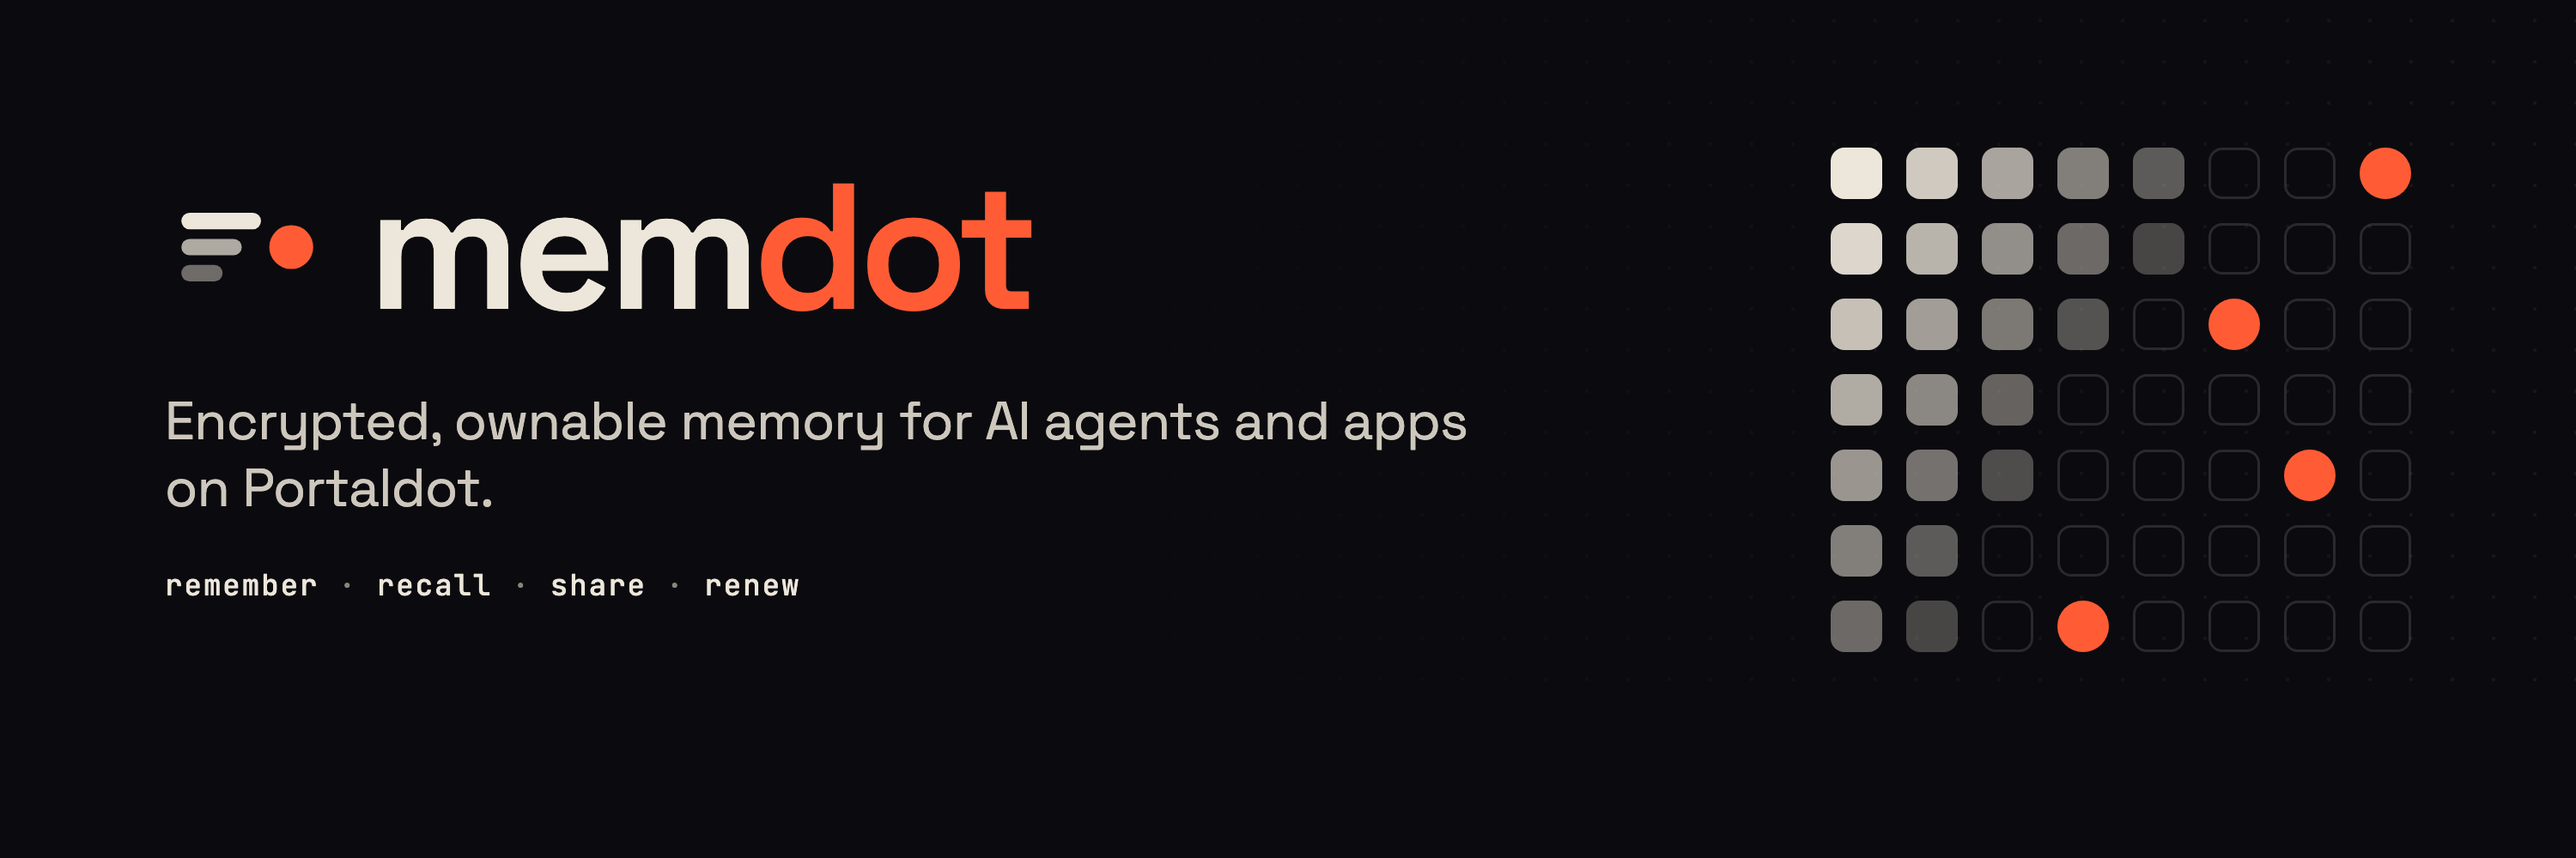
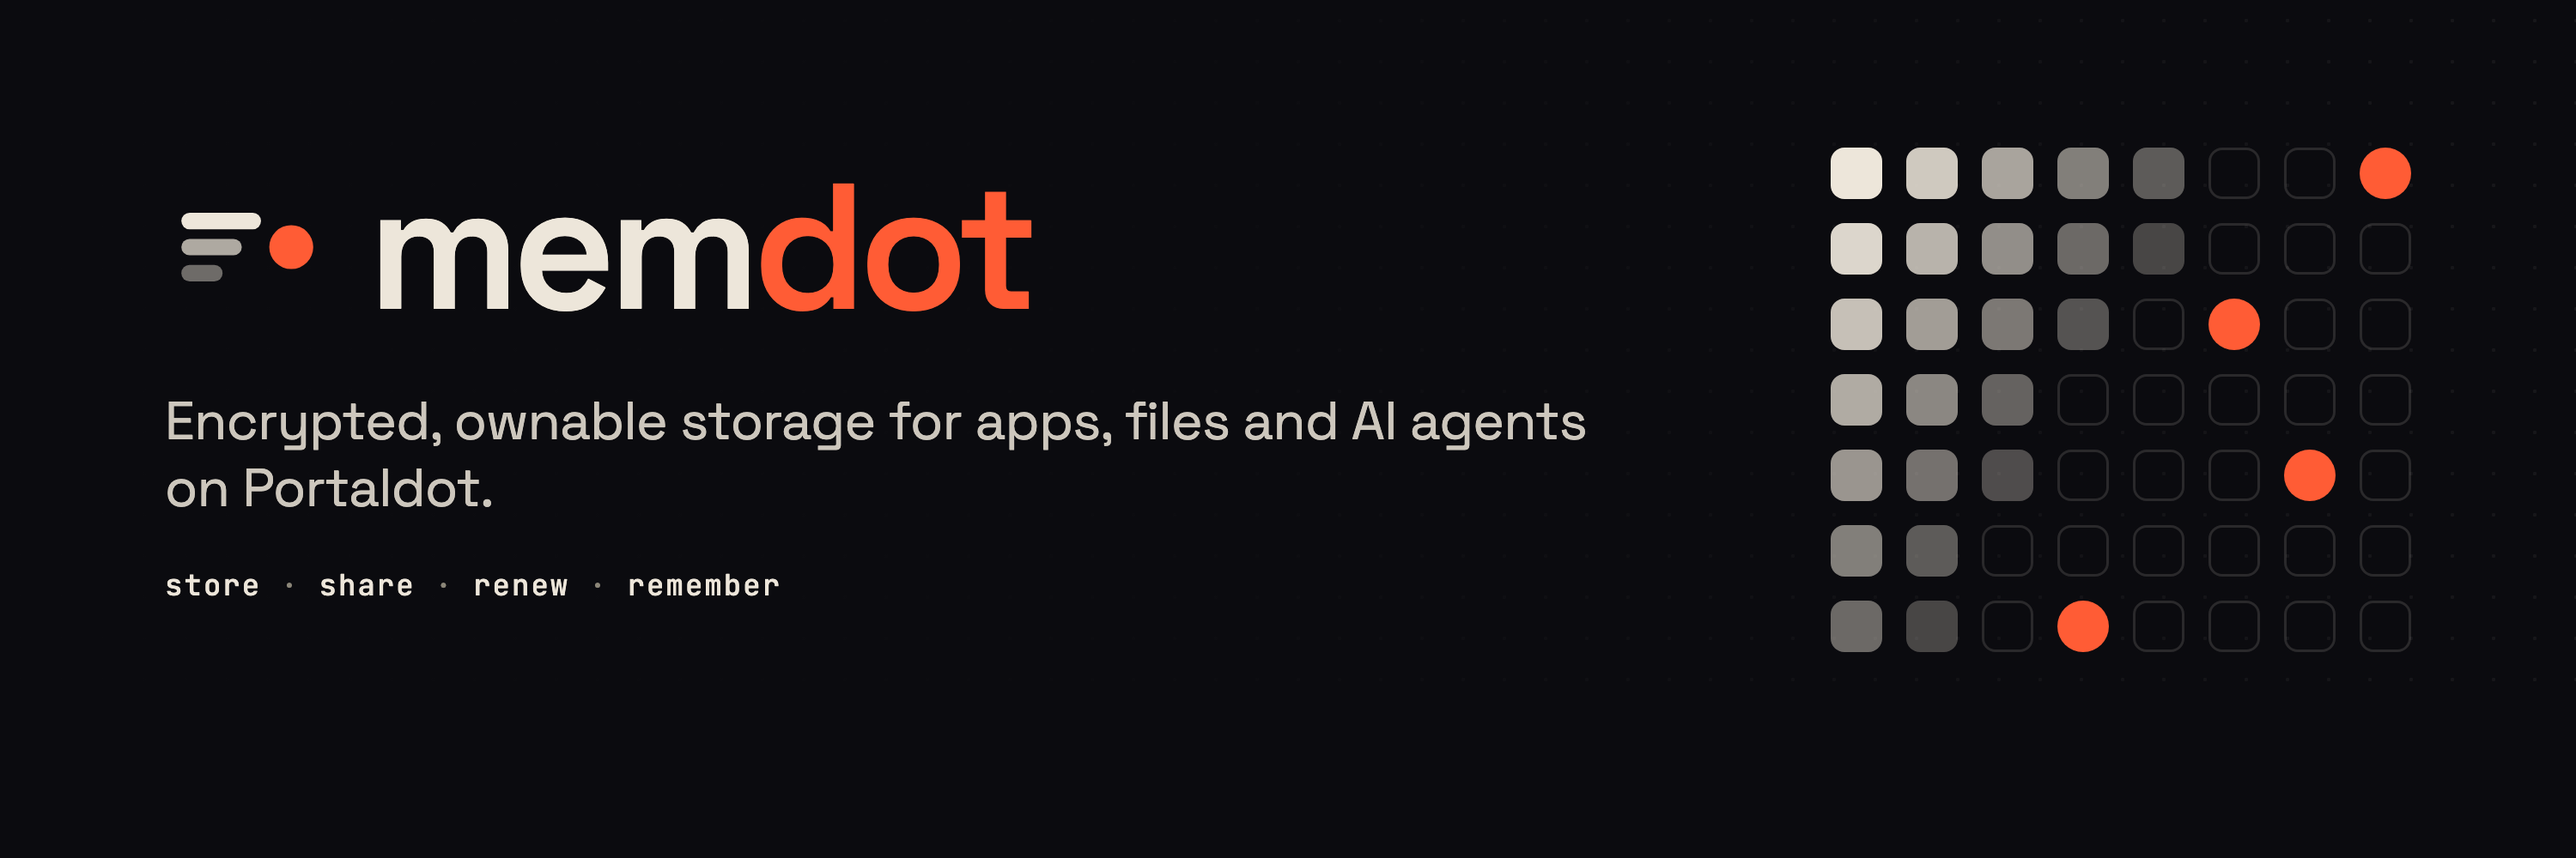
Position MemDot as storage for apps, files and agent memory

Changed region(s): [[0.279, 0.465, 0.62, 0.527], [0.062, 0.651, 0.31, 0.713]]

diff --git a/assets/brand/banner.html b/assets/brand/banner.html
@@ -21,7 +21,7 @@
   .brand svg { width: 96px; height: 96px; }
   .word { font-size: 104px; font-weight: 600; letter-spacing: -0.045em; line-height: 1; }
   .word span { color: var(--ember); }
-  .tag { margin-top: 30px; font-size: 31px; font-weight: 400; letter-spacing: -0.01em; color: rgba(237,230,218,0.86); max-width: 760px; line-height: 1.25; }
+  .tag { margin-top: 30px; font-size: 31px; font-weight: 400; letter-spacing: -0.01em; color: rgba(237,230,218,0.86); max-width: 900px; line-height: 1.25; }
   .verbs { margin-top: 26px; font-family: 'JetBrains Mono', monospace; font-size: 17px; letter-spacing: 0.06em; color: var(--muted); }
   .verbs b { color: var(--cream); font-weight: 500; }
   .event { position: absolute; left: 96px; bottom: 38px; font-family: 'JetBrains Mono', monospace; font-size: 13px; letter-spacing: 0.14em; color: var(--muted); text-transform: uppercase; }
@@ -45,8 +45,8 @@
       </svg>
       <div class="word">mem<span>dot</span></div>
     </div>
-    <p class="tag">Encrypted, ownable memory for AI agents and apps on Portaldot.</p>
-    <p class="verbs"><b>remember</b> · <b>recall</b> · <b>share</b> · <b>renew</b></p>
+    <p class="tag">Encrypted, ownable storage for apps, files and AI agents<br>on Portaldot.</p>
+    <p class="verbs"><b>store</b> · <b>share</b> · <b>renew</b> · <b>remember</b></p>
   </div>
   <div class="event">Portaldot Hacker House 2026 — Modular Cloud &amp; Middleware</div>
   <div class="caption">7-day retention · renew to keep</div>

diff --git a/README.md b/README.md
@@ -1,18 +1,18 @@
-<p align="center"><img src="assets/brand/banner.png" alt="MemDot — encrypted, ownable memory for AI agents and apps on Portaldot" width="100%"></p>
+<p align="center"><img src="assets/brand/banner.png" alt="MemDot — encrypted, ownable storage for apps, files and AI agents on Portaldot" width="100%"></p>
 
 # MemDot
 
-Encrypted, ownable memory for AI agents and apps on Portaldot V3.
+Decentralized storage on Portaldot V3 for apps, files and AI-agent memory.
 
 > **Status — 2026-10-29, early build.** Research and a live-runtime probe are done. The storage architecture is still being decided; the open questions are in [docs/office-hours.md](docs/office-hours.md). Nothing is deployed to the testnet yet, and this README will say so until it is.
 
 ## Why
 
-AI agents forget between sessions. The memory layers that fix this keep each user's memories in the operator's database: the user cannot take them elsewhere, cannot prove what was stored, and has to trust the operator not to read them. Decentralized storage networks keep bytes, but they do not give a developer a memory API.
+Portaldot apps and agents need somewhere to keep data they own. Today that means a cloud bucket or an operator's database: the user cannot take the data elsewhere, cannot prove what was stored, and has to trust the operator not to read it. AI agents have the sharpest version of this problem, because they forget between sessions unless someone else holds their memory.
 
-MemDot aims to be both: storage and long-term memory for agents and apps, as a full developer product (SDK, REST API, CLI, MCP server, dashboard with API keys), with data encrypted before it leaves the client and ownership and access grants on Portaldot.
+MemDot is a storage layer on V3. Files and app data are encrypted before they leave the client, stored and renewed on-chain, and their ownership and access grants live in an on-chain registry. Agent memory (remember and recall) is built on the same layer. Developers reach it through one SDK, a REST API, a CLI, an MCP server for agents, and a dashboard with API keys.
 
-The core loop is **remember → recall → share → renew**.
+The core loop is **store → share → renew**, with **remember → recall** on top for agents.
 
 ## What V3 actually offers (measured)
 

diff --git a/docs/office-hours.md b/docs/office-hours.md
@@ -4,7 +4,7 @@ Application for the Portaldot Hacker House 2026 mentor session. Written 2026-10-
 
 ## Project
 
-**MemDot**: storage and long-term memory for AI agents and apps on Portaldot V3. Agents remember and recall across sessions; data is encrypted before it leaves the client, stored and renewed on V3, and its ownership and access grants live in an on-chain registry. Developers reach it through one SDK, a REST API, a CLI, an MCP server for agents, and a dashboard with API keys. Track: Modular Cloud & Middleware.
+**MemDot**: decentralized storage on Portaldot V3 for apps, files and AI-agent memory. Data is encrypted on the client, stored and renewed on-chain, and its ownership and access grants live in an on-chain registry. Agent memory (remember and recall) is built on the same layer. Developers reach it through one SDK, a REST API, a CLI, an MCP server for agents, and a dashboard with API keys. Track: Modular Cloud & Middleware.
 
 Repository: https://github.com/Blockchain-Oracle/memdot
 
